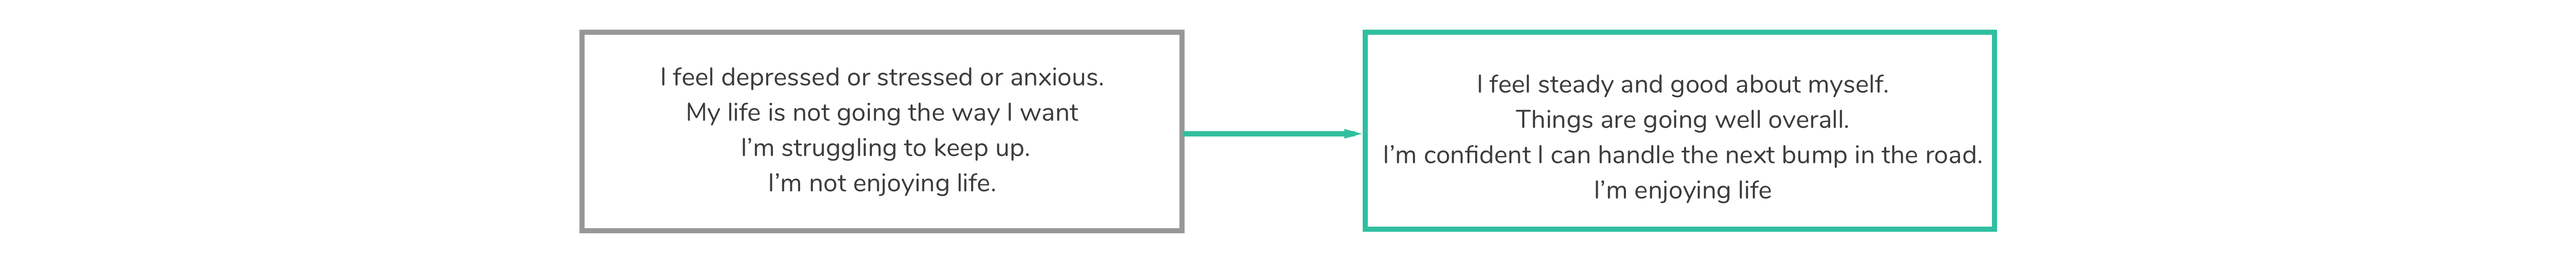
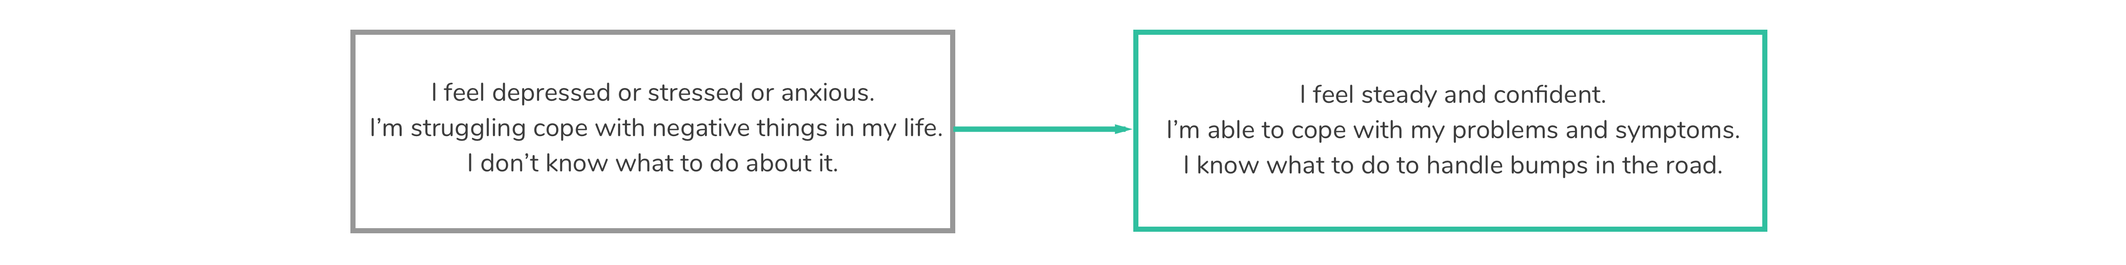
Fixes: Blurred case study images for privacy purposes.

diff --git a/index.html b/index.html
@@ -1,7 +1,7 @@
 <!DOCTYPE html>
 <html>
 <!--
-            Welcome backstage ;) 
+            Welcome backstage ;)
 
         -->
 <head>
@@ -24,7 +24,7 @@
 	<link href="../css/main.css" media="screen and (min-width:1000px)" rel="stylesheet">
 	<link href="../css/main.css" media="screen and (min-width:600px)" rel="stylesheet">
 	<link rel="shortcut icon" type="image/x-icon" href="favicon.ico">
-	<link href="https://fonts.googleapis.com/css?family=Miriam+Libre|Muli" rel="stylesheet">
+    <link href="https://fonts.googleapis.com/css?family=Karla:400,700|Miriam+Libre" rel="stylesheet">
 </head>
 <body>
 	<header>
@@ -46,11 +46,11 @@
 	<!--
             A little bit about Jo Engreitz
         -->
-	<main>   
+	<main>
         <section class="about">
             <div class="top-section">
                 <div class="hero-wrapper">
-                    <h1>Hi, I'm Jo. I'm a startup product manager with love for strong UX and a knack for blending qual + quant.</h1>
+                    <h1>Hi, I'm Jo. I'm a startup product manager with a knack for leveraging qual + quant to ship value and drive growth.</h1>
                     <a href="/about.html" class="hero-link">More about me</a>
                 </div>
             </div>
@@ -59,7 +59,7 @@
             A selection of my work
         -->
 		<section class="featured-work">
-            <div class="middle-section">                    
+            <div class="middle-section">
                 <div class="project-title-container">
                     <p>Featured Work:</p>
                 </div>
@@ -68,19 +68,19 @@
                         <a class="no-underline" href="https://medium.com/@joengreitz/growth-is-a-buzzword-in-the-startup-world-for-a-good-reason-1e5dba1fbbec" target="_blank">
                             <div class="card-figure">
                                 <img alt="Growth Graph" src="../img/project-thumbnails/growth.png">
-                            </div> 
+                            </div>
                             <div class="card-details">
                                 <h2>A Growth Framework for PMs</h2>
                                 <p class="card-paragraph">Why product drives growth and how to frame growth strategy for startups</p>
                             </div>
                         </a>
                     </div>
-                    
+
                     <div class="card">
                         <a class="no-underline" href="/digital-therapy-app.html" target="_blank">
                             <div class="card-figure">
                                 <img alt="App Wireframes" src="../img/project-thumbnails/digital-therapy.png">
-                            </div> 
+                            </div>
                             <div class="card-details">
                                 <h2>Digital Therapy App</h2>
                                 <p class="card-paragraph">Product discovery, MVP definition and wireframes for a digital therapy app for health plan members</p>
@@ -92,31 +92,31 @@
                         <a class="no-underline" href="https://medium.com/@engreitzjo/seatgeek-landing-page-ux-analysis-eb80e987e9ca" target="_blank">
                             <div class="card-figure">
                                 <img alt="Opportunity Equation" src="../img/project-thumbnails/seatgeek.png">
-                            </div> 
+                            </div>
                             <div class="card-details">
                                 <h2>SeatGeek UX Analysis</h2>
                                 <p class="card-paragraph">High-level analsysis of SeatGeek's landing page & identification of opportunities to optimize</p>
                             </div>
                         </a>
                     </div>
-                    
+
                     <div class="card">
                         <a class="no-underline" href="https://medium.com/@engreitzjo/sql-for-pms-a-crash-course-3d5382802d54" target="_blank">
                             <div class="card-figure">
                                 <img alt="SQL" src="../img/project-thumbnails/sql.png">
-                            </div> 
+                            </div>
                             <div class="card-details">
                                 <h2>SQL for PMs</h2>
                                 <p class="card-paragraph">SQL crash course designed to help product managers master basic syntax</p>
                             </div>
                         </a>
                     </div>
-                    
+
                     <div class="card">
                         <a class="no-underline" href="https://medium.com/@joengreitz/unpacking-amz-bkh-jpm-part-1-6caba15e667b" target="_blank">
                             <div class="card-figure">
                                 <img alt="Medium Icon" src="../img/project-thumbnails/healthcare.png">
-                            </div> 
+                            </div>
                             <div class="card-details">
                                 <h2>Unpacking AMZ-BKH-JPM</h2>
                                 <p class="card-paragraph">Overview of the market forces behind the Amazon-Berkshire-JPMorgan healthcare partnership & what it could achieve</p>
@@ -127,24 +127,26 @@
                         <a class="no-underline" href="https://medium.com/@engreitzjo/the-product-newbs-survival-kit-eacfd0c64a0" target="_blank">
                             <div class="card-figure">
                                 <img alt="Medium Icon" src="../img/project-thumbnails/survivalkit.png">
-                            </div> 
+                            </div>
                             <div class="card-details">
                                 <h2>PM Survival Kit</h2>
                                 <p class="card-paragraph">Curated mini-library of free high-impact product resources help new PMs get up to speed</p>
                             </div>
                         </a>
                     </div>
-                   <div class="card">
+                   <!--
+                    <div class="card">
                         <a class="no-underline" href="http://www.reconnectgraphics.com/" target="_blank">
                             <div class="card-figure">
                                 <img alt="Reconnect Brooklyn & Jo showing off Break the Chain tees" src="../img/project-thumbnails/breakthechain.png">
-                            </div> 
+                            </div>
                             <div class="card-details">
                                 <h2>Break the Chain</h2>
                                 <p class="card-paragraph">An entrepreneurial skill-building program for residents at juvenile detention centers</p>
                             </div>
                         </a>
                     </div>
+                    -->
                 </div>
             </div>
         </section>
@@ -155,7 +157,7 @@
         <hr>
 		<!-
         A few ways you can get in touch with me
-    --> 
+    -->
         <div class="bottom-section">
             <div class = "social-wrapper">
                  <a href="https://medium.com/@joengreitz" target="blank"><img class="social-image" alt="Medium Logo" src="../img/social-icons/medium.png"></a>

diff --git a/digital-therapy-app.html b/digital-therapy-app.html
@@ -24,7 +24,7 @@
 	<link href="../css/main.css" media="screen and (min-width:1000px)" rel="stylesheet">
 	<link href="../css/main.css" media="screen and (min-width:675px)" rel="stylesheet">
 	<link rel="shortcut icon" type="image/x-icon" href="favicon.ico">
-	<link href="https://fonts.googleapis.com/css?family=Miriam+Libre|Muli" rel="stylesheet">
+    <link href="https://fonts.googleapis.com/css?family=Karla:400,700|Miriam+Libre" rel="stylesheet">
 </head>
 <body>
 	<header>
@@ -47,29 +47,29 @@
             A little bit about the BeWell digital therapy app project
         -->
 	<main>
-        
+
         <section class="about">
             <div class="top-section">
                 <div class="hero-wrapper">
                     <h1>BeWell - Digital Therapy App</h1>
                 </div>
-            </div>       
+            </div>
         </section>
-        
+
         <section class="about-content">
             <div class="about-content-section">
                 <h2>The Question</h2>
                     <p>How might we make it easier for people to overcome mild and moderate stress, anxiety and depression?</p>
-                
+
                 <h2>The Problem</h2>
                     <p>Roughly 20% of Americans suffer from a behavioral health condition like stress, depression or anxiety. But the United States faces a supply shortage of behavioral healthcare providers as well as stigma- and logistics-related access barriers that prevent people from receiving care.</p>
-                
-                    <p><strong>Health plans </strong> struggle to meet member demand for services. Psychiatrist shortages result in long wait times that leave health plans vulnerable to low member satisfaction ratings and penalties or even lawsuits from regulators for failing to provide the minimum level of coverage.</p> 
-                
-                    <p><strong>Consumers</strong> face limited behavioral health provider networks, long wait times and often lack clairty about what level of care is right for them or how they can access and pay for it. As a result, many people forgo treatment.</p> 
-                        
-                    <p><strong>Employers</strong> face rising healthcare costs and high prevalence of untreated behavioral health conditions that result in low productivity and higher medical costs for employees.</p> 
-                
+
+                    <p><strong>Health plans </strong> struggle to meet member demand for services. Psychiatrist shortages result in long wait times that leave health plans vulnerable to low member satisfaction ratings and penalties or even lawsuits from regulators for failing to provide the minimum level of coverage.</p>
+
+                    <p><strong>Consumers</strong> face limited behavioral health provider networks, long wait times and often lack clairty about what level of care is right for them or how they can access and pay for it. As a result, many people forgo treatment.</p>
+
+                    <p><strong>Employers</strong> face rising healthcare costs and high prevalence of untreated behavioral health conditions that result in low productivity and higher medical costs for employees.</p>
+
                  <h2>The Goal</h2>
                     <p>My goal was to validate the viability, feasibility and desirability of a consumer-directed digital therapy program.</p>
 
@@ -83,39 +83,40 @@
                         <li>Wireframing</li>
                         <li>Prototyping & user testing</li>
                     </ul>
-                
+
                 <h2>Discovery</h2>
                     <p>The process began with stakeholder interviews, shadowing and brainstorming with subject matter experts.</p>
                      <p>I led a value-mapping workshop with behavioral healthcare providers, health plan representatives and patient advocates to understand health plan and patient pain points and motivators.</p>
 
-                    <img src="../img/digital-therapy-app/value-map.png" alt="Whiteboarding Notes">
+                    <img src="../img/digital-therapy-app/value-map.png" alt="Whiteboarding a user value map">
+										<img src="../img/digital-therapy-app/whiteboarding-blurred.png" alt="Whiteboarding a curriculum concept">
 
-                     <p>Next I used the lean startup canvas to hash out hypotheses about the core value prop and business model </p>
+                     <p>Next I used the lean startup canvas to hash out hypotheses about the core value prop and business model.</p>
 
                     <img src="../img/digital-therapy-app/lean-canvas.png" alt="Lean Canvas">
 
                 <h2>Design</h2>
                      <p>To understand the user (health plan member) I carried out "secret santa shopping" on two health plans and interviewed three patients.</p>
-                
-                      <p>As I learned, I filled in a journey map outlining the functional, emotional and social needs that a person experiences throughout the course of seeking behavioral health services.</p>
 
-                        <img src="../img/digital-therapy-app/member-journey.png" alt="Member Journey">
-            
+                      <p>As I learned, I filled in a journey map outlining the functional, emotional and social needs that a person experiences throughout the course of seeking certain healthcare services.</p>
+
+                        <img src="../img/digital-therapy-app/member-journey-blurred.png" alt="Member Journey">
+
                         <p>I also distilled the core job-to-be-done (JTBD) to keep top-of-mind throughout the design process. This is the ultimate job the product needs to accomplish for the user.</p>
-                
+
                          <img src="../img/digital-therapy-app/JTBD.png" alt="Job-To-Be-Done">
-                
-                         <p>The next steps in the process involved user-story-mapping and slicing out a minimum viable chunk of functionality that could achieve the core JTBD</p>
-                
+
+                         <p>The next steps in the process involved user-story-mapping and slicing out a minimum viable chunk of functionality that could achieve the core JTBD.</p>
+
                           <p>From there I went through a few drafts of low-fidelity sketches and wireframes before putting together the "wireflow" for the app.</p>
 
-                        <img src="../img/digital-therapy-app/wireframes.png" alt="Project Wireframes">
-                
+                        <img src="../img/digital-therapy-app/wireframes-blurred.png" alt="Project Wireframes">
+
                 <h2>Future Work</h2>
                      <p>To continue the process of validation and iterative design, my next steps are to prototype the early wireframes and test with a small cohort of patient users.</p>
             </div>
         </section>
-        
+
 	</main>
 
     <footer>

diff --git a/about.html b/about.html
@@ -2,6 +2,8 @@
 <html>
 <!--
             Welcome backstage ;)
+            This site was built by Jo Engreitz with HTML, CSS & JavaScript.
+            Design inspiration credit to Sanat Rath @ Google Design.
 
         -->
 <head>
@@ -24,7 +26,7 @@
 	<link href="../css/main.css" media="screen and (min-width:1000px)" rel="stylesheet">
 	<link href="../css/main.css" media="screen and (min-width:675px)" rel="stylesheet">
 	<link rel="shortcut icon" type="image/x-icon" href="favicon.ico">
-	<link href="https://fonts.googleapis.com/css?family=Miriam+Libre|Muli" rel="stylesheet">
+    <link href="https://fonts.googleapis.com/css?family=Karla:400,700|Miriam+Libre" rel="stylesheet">
 </head>
 <body>
 	<header>
@@ -48,16 +50,15 @@
         -->
 	<main>
         <section class="about">
-            <div class="top-section">
+            <div class="top-section-about">
                 <div class="hero-wrapper">
                     <h1>About Me</h1>
                 </div>
-            </div>       
+            </div>
 	   </section>
         <section class="about-content">
-            <div class="profile-photo-section">
-            </div>
             <div class="about-content-section">
+                <img class="profile-photo" src="/img/profile-photo.png">
                 <p>Hi! My name is Jo Engreitz. I live in New York City and work at a digital health startup as a product manager.</p>
 
                 <p>I spend a lot of time thinking about:</p>
@@ -66,14 +67,15 @@
                     <li>Other people's problems</li>
                     <li>The one metric that matters most</li>
                     <li>How technology & society influence one another</li>
+                    <li>The qualities, habits & rituals of high-performing product teams</li>
                 </ul>
 
-                <p>Outside work you'll find me reading, flowing, noodling on side projects and hunting down the best live drawing meetups in the city.</p>
-                
+                <p>Outside of work you'll find me reading, flowing, experimenting in the kitchen, noodling on side projects and hunting down the best live drawing meetups in the city.</p>
+
                 <p>I'm always happy to connect with other product people / builders / creators. Shop is open for collaboration on UX & front-end side projects.</p>
 
                 <a class="about-link" href="mailto:jo.engreitz@gmail.com?Subject=Hello%20again" target="_top">Say hello!</a>
-                
+
             </div>
         </section>
 	</main>

diff --git a/css/main.css b/css/main.css
@@ -55,7 +55,9 @@ main {
 }
 
 .about-content-section {
-    margin-bottom: 10%
+    margin-bottom: 10%;
+    margin-left: 10%;
+    margin-right: 10%;
 }
 
 .top-section {
@@ -64,6 +66,13 @@ main {
     padding-left: 10%;
     padding-top: 10%;
     padding-bottom: 10%;
+}
+
+.top-section-about{
+    /* Display and Box Model */
+    padding-right: 10%;
+    padding-left: 10%;
+    padding-top: 10%;
 }
 
 .bottom-section {
@@ -147,13 +156,13 @@ main {
 }
 
 h1 {
-	font-family: "Muli: 400",sans-serif;
+	font-family: 'karla:700' , sans-serif;
     color: #222;
 	font-size: 2rem;
 }	
 
 h2 {
-    font-family: "Muli: 400",sans-serif;
+    font-family: 'karla:700', sans-serif;
     color: #222;
 	font-size: 1.2rem;
     text-decoration: none;
@@ -220,6 +229,13 @@ a:hover {
 .social-image {
    	 width: 30px;
    	 height: 30px;
+}
+
+.profile-photo {
+    width: 20%;
+    height: 20%;
+    padding-left: 40%;
+    padding-right: 40%;
 }
 
 @media only screen and (max-width: 1000px) {
